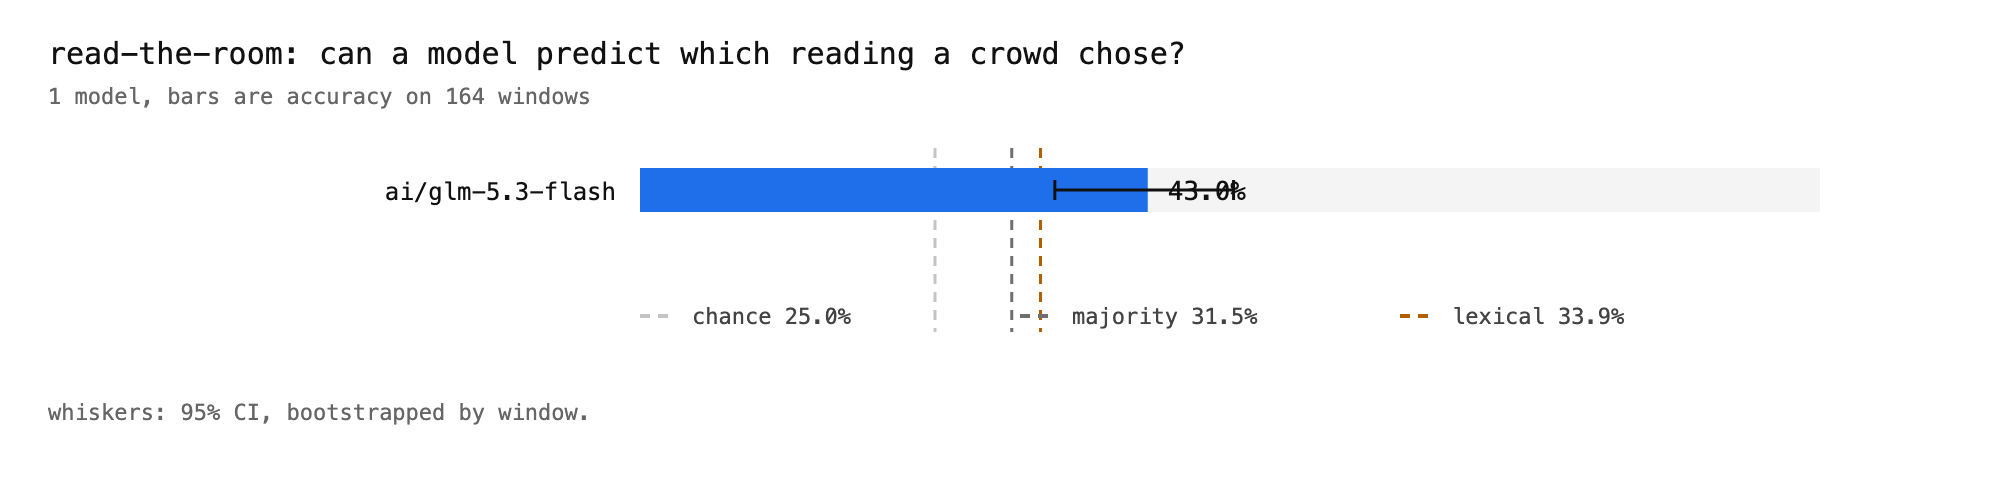
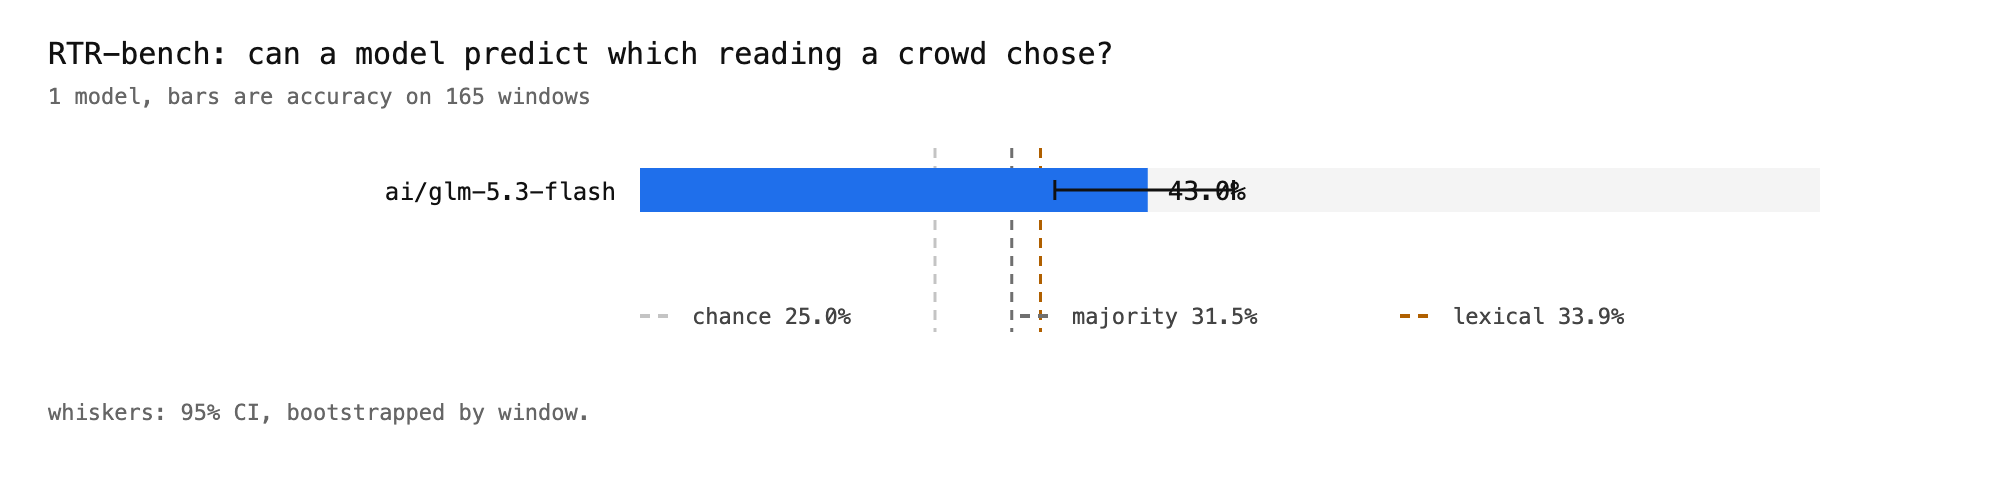
Rename to RTR-bench across package, CLI and labels
npm name is rtr-bench (npm rejects uppercase). Command is rtr-bench. Report, chart and human instrument now carry the same name. Chart subtitle now takes the window count from the dataset instead of a hardcoded number.

Changed region(s): [[0.0, 0.06, 0.589, 0.15], [0.217, 0.18, 0.248, 0.21]]

diff --git a/src/report.ts b/src/report.ts
@@ -57,7 +57,7 @@ export function writeReport() {
   const ranked = [...scores].sort((a, b) => b.predict.acc - a.predict.acc);
 
   const lines: string[] = [];
-  lines.push("# read-the-room");
+  lines.push("# RTR-bench");
   lines.push("");
   lines.push(
     `How well does a language model predict how people read a word? ${dataset.windows} windows, ${dataset.marks.toLocaleString()} marks, 4 readings, 4 option orders.`
@@ -146,12 +146,12 @@ export function writeReport() {
 
   fs.mkdirSync("results", { recursive: true });
   fs.writeFileSync("results/leaderboard.md", lines.join("\n") + "\n");
-  fs.writeFileSync("results/leaderboard.svg", svg(ranked, baselines));
+  fs.writeFileSync("results/leaderboard.svg", svg(ranked, baselines, dataset.windows));
   console.log("wrote results/leaderboard.md and results/leaderboard.svg");
   return data;
 }
 
-function svg(scores: Score[], baselines: any) {
+function svg(scores: Score[], baselines: any, windowCount: number) {
   const rowH = 38;
   const top = 84;
   const left = 320;
@@ -204,8 +204,8 @@ function svg(scores: Score[], baselines: any) {
 
   return `<svg xmlns="http://www.w3.org/2000/svg" width="${w}" height="${h}" viewBox="0 0 ${w} ${h}">
   <rect width="100%" height="100%" fill="#fff"/>
-  <text x="24" y="32" font-family="ui-monospace, monospace" font-size="15" fill="#111">read-the-room: can a model predict which reading a crowd chose?</text>
-  <text x="24" y="52" font-family="ui-monospace, monospace" font-size="11" fill="#666">${scores.length} model${scores.length === 1 ? "" : "s"}, bars are accuracy on 164 windows</text>
+  <text x="24" y="32" font-family="ui-monospace, monospace" font-size="15" fill="#111">RTR-bench: can a model predict which reading a crowd chose?</text>
+  <text x="24" y="52" font-family="ui-monospace, monospace" font-size="11" fill="#666">${scores.length} model${scores.length === 1 ? "" : "s"}, bars are accuracy on ${windowCount} windows</text>
   ${line(0.25, "#c4c4c4")}
   ${line(baselines.majorityClass.acc, "#6f6f6f")}
   ${line(baselines.lexical.acc, "#b06000")}

diff --git a/human/index.html b/human/index.html
@@ -3,7 +3,7 @@
 <head>
 <meta charset="utf-8">
 <meta name="viewport" content="width=device-width, initial-scale=1">
-<title>read-the-room: human baseline</title>
+<title>RTR-bench: human baseline</title>
 <style>
   :root { --ink:#111; --muted:#666; --line:#e5e5e5; --bg:#fff; --pick:#1f6feb; }
   * { box-sizing: border-box; }
@@ -31,7 +31,7 @@
 </head>
 <body>
 <main>
-  <h1>read-the-room: human baseline</h1>
+  <h1>RTR-bench: human baseline</h1>
   <p class="lede">21 words. For each one, pick the reading you think <em>most people</em> chose. You are guessing the crowd, not telling us your own view. No feedback until the end.</p>
   <div class="bar"><span id="prog"></span></div>
 
@@ -131,7 +131,7 @@ function finish() {
     const blob = new Blob([csv], { type: "text/csv" });
     const a = document.createElement("a");
     a.href = URL.createObjectURL(blob);
-    a.download = `read-the-room-${id}.csv`;
+    a.download = `rtr-bench-${id}.csv`;
     a.click();
   };
 }

diff --git a/src/run.ts b/src/run.ts
@@ -60,7 +60,7 @@ async function call(model: string, task: Task, word: string, order: number) {
         Authorization: `Bearer ${apiKey()}`,
         "Content-Type": "application/json",
         "HTTP-Referer": "https://mixedmessages.fyi",
-        "X-Title": "read-the-room",
+        "X-Title": "RTR-bench",
       },
       body: JSON.stringify(body),
     });
@@ -220,7 +220,7 @@ export async function runModel(windows: Window[], opts: RunOptions) {
 
 export async function listModels() {
   const res = await fetch("https://openrouter.ai/api/v1/models", {
-    headers: { "User-Agent": "read-the-room", Accept: "application/json" },
+    headers: { "User-Agent": "RTR-bench", Accept: "application/json" },
   });
   if (!res.ok) throw new Error(`catalog HTTP ${res.status}`);
   const j = await res.json();

diff --git a/src/cli.ts b/src/cli.ts
@@ -1,5 +1,5 @@
 #!/usr/bin/env node
-// read-the-room CLI
+// RTR-bench CLI
 //
 //   node src/cli.ts catalog --limit 20
 //   node src/cli.ts run --models a,b --tasks both

diff --git a/README.md b/README.md
@@ -101,8 +101,8 @@ Scoring a model needs no database access: `data/windows.json` is in the repo.
 ### Run your own model
 
 ```bash
-git clone https://github.com/1999labs/read-the-room-bench
-cd read-the-room-bench
+git clone https://github.com/1999labs/RTR-bench
+cd RTR-bench
 npm install
 
 # put your own key in a file, not in shell history

diff --git a/results/leaderboard.md b/results/leaderboard.md
@@ -1,4 +1,4 @@
-# read-the-room
+# RTR-bench
 
 How well does a language model predict how people read a word? 165 windows, 39,828 marks, 4 readings, 4 option orders.
 
